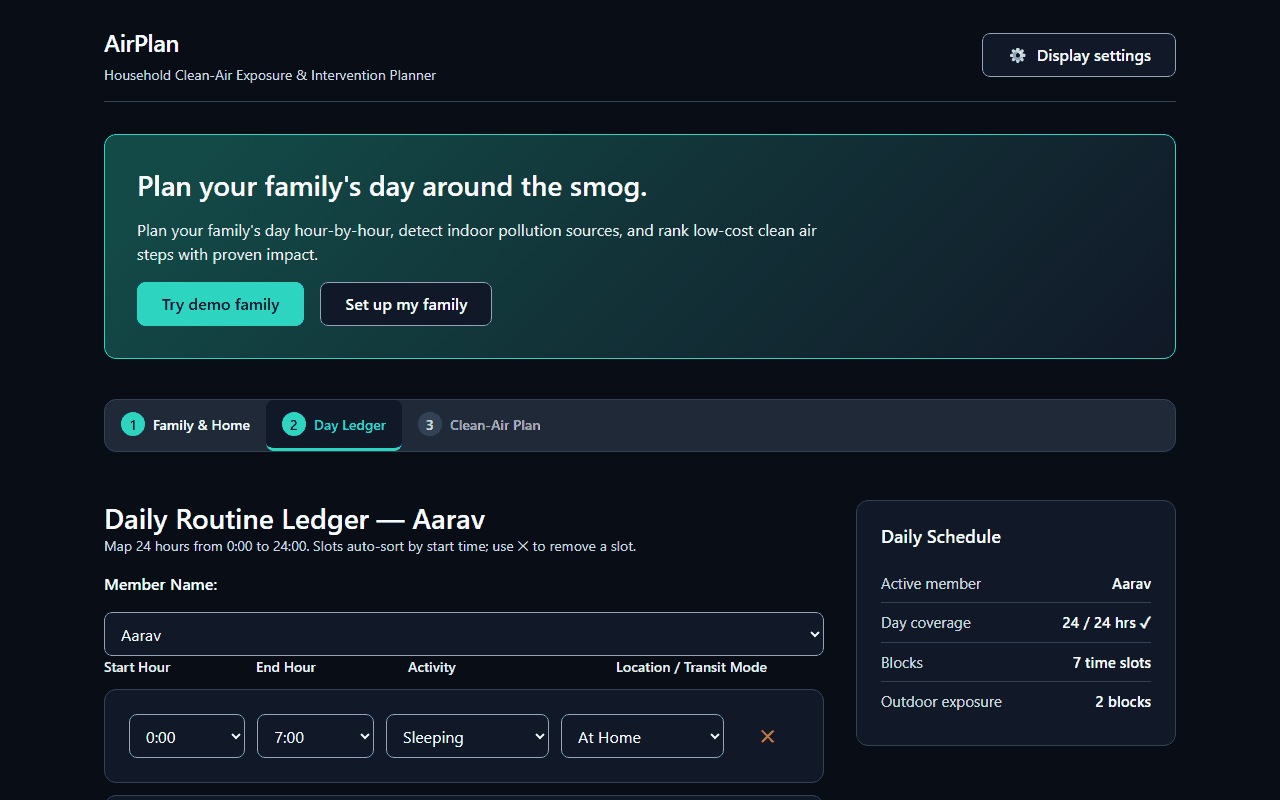
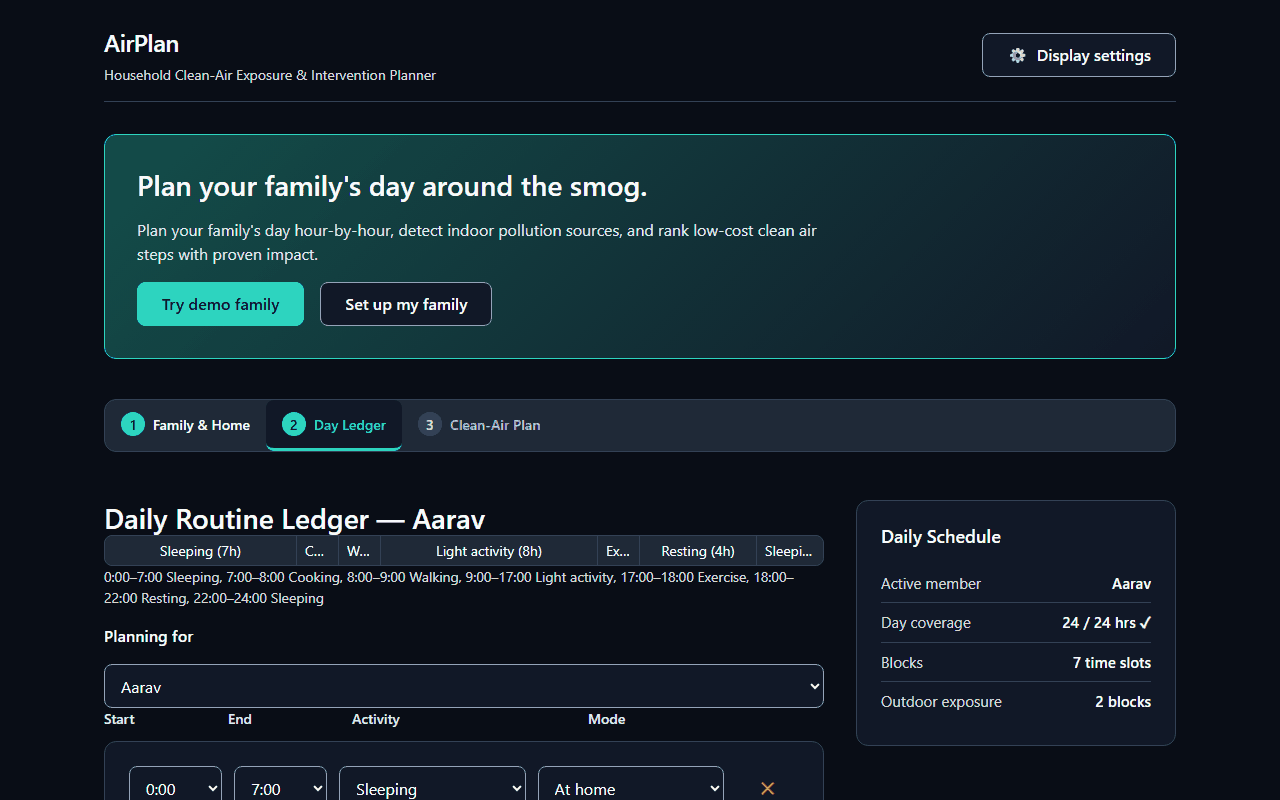
feat(ui): fix day ledger and family layout

diff --git a/static/js/render/ledger.js b/static/js/render/ledger.js
@@ -1,30 +1,40 @@
 /**
- * @fileoverview Screen 2: Day Ledger routine editor and counterfactual suggestion.
+ * @fileoverview Screen 2: Day Ledger routine editor, 24h strip, and simulation.
  */
 
 import { announce, showError } from '../a11y.js';
 import { simulateRoutine } from '../api.js';
 import { el } from '../dom.js';
-import { labelFor, t } from '../i18n.js';
+import { t } from '../i18n.js';
 import { getState, setState } from '../state.js';
-import { analyzeRoutineCoverage, sortRoutine } from './ledger_helpers.js';
+import { SHORT_ACT, SHORT_MODE, analyzeRoutineCoverage, sortRoutine, summarizeRoutineText } from './ledger_helpers.js';
 
-const ACTIVITIES = ['sleep', 'rest', 'light', 'walk', 'exercise', 'cook'];
-const MODES = ['home', 'walk', 'cycle', 'metro', 'bus', 'auto_rickshaw', 'car', 'outdoor'];
+const ACTIVITIES = Object.keys(SHORT_ACT);
+const MODES = Object.keys(SHORT_MODE);
 const HOURS = Array.from({ length: 25 }, (_, i) => ({ val: String(i), label: `${i}:00` }));
 
-function makeSel(ariaLabel, options, currentVal, onChange) {
+function makeSel(id, ariaLabel, options, currentVal, onChange) {
   const sel = document.createElement('select');
+  sel.id = id;
   sel.setAttribute('aria-label', ariaLabel);
   options.forEach((o) => {
-    const opt = document.createElement('option');
-    opt.value = typeof o === 'object' ? o.val : o;
-    opt.textContent = typeof o === 'object' ? o.label : o;
+    const opt = Object.assign(document.createElement('option'), {
+      value: typeof o === 'object' ? o.val : o,
+      textContent: typeof o === 'object' ? o.label : o,
+    });
     if (opt.value === String(currentVal)) opt.selected = true;
     sel.appendChild(opt);
   });
   sel.addEventListener('change', (e) => onChange(e.target.value));
   return sel;
+}
+
+function wrapField(lblText, sel) {
+  const wrap = el('div', 'ledger-field');
+  const lbl = el('label', 'mobile-field-label', lblText);
+  lbl.htmlFor = sel.id;
+  wrap.append(lbl, sel);
+  return wrap;
 }
 
 function updateMemberRoutine(memberIdx, newRoutine) {
@@ -33,26 +43,35 @@ function updateMemberRoutine(memberIdx, newRoutine) {
   setState({ members });
 }
 
-function buildBlockRow(block, bIdx, routine, activeIdx, lang) {
-  const row = el('div', 'routine-block-row card form-row');
-  const patch = (key, val) => {
-    const u = routine.map((b, i) => (i === bIdx ? { ...b, [key]: val } : b));
-    updateMemberRoutine(activeIdx, u);
-  };
-  const sSel = makeSel(`Start ${bIdx + 1}`, HOURS, block.start_hour, (v) => patch('start_hour', Number(v)));
-  const eSel = makeSel(`End ${bIdx + 1}`, HOURS, block.end_hour, (v) => patch('end_hour', Number(v)));
-  const aSel = makeSel(`Activity ${bIdx + 1}`, ACTIVITIES.map((a) => ({ val: a, label: labelFor('activity', a, lang) })), block.activity, (v) => patch('activity', v));
-  const mSel = makeSel(`Mode ${bIdx + 1}`, MODES.map((m) => ({ val: m, label: labelFor('mode', m, lang) })), block.mode, (v) => patch('mode', v));
+function buildBlockRow(block, bIdx, routine, activeIdx) {
+  const row = el('div', 'routine-block-row card');
+  const patch = (key, val) => updateMemberRoutine(activeIdx, routine.map((b, i) => (i === bIdx ? { ...b, [key]: val } : b)));
+  const sSel = makeSel(`b-${bIdx}-s`, `Start ${bIdx + 1}`, HOURS, block.start_hour, (v) => patch('start_hour', Number(v)));
+  const eSel = makeSel(`b-${bIdx}-e`, `End ${bIdx + 1}`, HOURS, block.end_hour, (v) => patch('end_hour', Number(v)));
+  const aSel = makeSel(`b-${bIdx}-a`, `Activity ${bIdx + 1}`, ACTIVITIES.map((a) => ({ val: a, label: SHORT_ACT[a] })), block.activity, (v) => patch('activity', v));
+  const mSel = makeSel(`b-${bIdx}-m`, `Mode ${bIdx + 1}`, MODES.map((m) => ({ val: m, label: SHORT_MODE[m] })), block.mode, (v) => patch('mode', v));
   const rmBtn = Object.assign(el('button', 'btn ghost', '✕'), { type: 'button', disabled: routine.length <= 1 });
   rmBtn.setAttribute('aria-label', `Delete block ${bIdx + 1}`);
   rmBtn.addEventListener('click', () => updateMemberRoutine(activeIdx, routine.filter((_, i) => i !== bIdx)));
-  row.append(sSel, eSel, aSel, mSel, rmBtn);
+  row.append(wrapField('Start', sSel), wrapField('End', eSel), wrapField('Activity', aSel), wrapField('Mode', mSel), rmBtn);
   return row;
+}
+
+function buildDayStrip(routine) {
+  const strip = el('div', 'day-strip');
+  strip.setAttribute('aria-hidden', 'true');
+  routine.forEach((b) => {
+    const dur = Math.max(1, b.end_hour - b.start_hour);
+    const seg = el('div', 'day-strip-seg', `${SHORT_ACT[b.activity] || b.activity} (${dur}h)`);
+    seg.style.flex = String(dur);
+    strip.appendChild(seg);
+  });
+  const textEq = el('p', 'help-text', summarizeRoutineText(routine));
+  return [strip, textEq];
 }
 
 /**
  * Render Day Ledger routine configuration screen into container.
- *
  * @param {HTMLElement} container - Target container element.
  * @returns {void}
  */
@@ -60,42 +79,34 @@ export function renderLedgerScreen(container) {
   container.replaceChildren();
   const s = getState(), lang = s.language;
   const activeIdx = s.activeMemberIndex || 0;
-  const currentMember = s.members[activeIdx] || s.members[0];
-  const cov = analyzeRoutineCoverage(currentMember.routine);
-
+  const cur = s.members[activeIdx] || s.members[0];
+  const cov = analyzeRoutineCoverage(cur.routine);
   const layout = el('div', 'step-layout'), mainCol = el('div', 'step-main');
-  mainCol.append(
-    el('h2', '', `${t('ledgerTitle', lang)} — ${currentMember.name}`),
-    el('p', 'help-text', 'Map 24 hours from 0:00 to 24:00. Slots auto-sort by start time; use ✕ to remove a slot.'),
-  );
+  mainCol.append(el('h2', '', `${t('ledgerTitle', lang)} — ${cur.name}`), ...buildDayStrip(cur.routine));
 
   if (s.members.length > 1) {
-    const selRow = el('div', 'field'), selLabel = el('label', '', `${t('memberName', lang)}:`);
+    const selRow = el('div', 'field'), selLabel = el('label', '', 'Planning for');
     selLabel.htmlFor = 'active-member-select';
-    const memSel = makeSel('Select Member', s.members.map((m, i) => ({ val: String(i), label: m.name })), String(activeIdx), (v) => setState({ activeMemberIndex: Number(v) }));
-    memSel.id = 'active-member-select';
+    const memSel = makeSel('active-member-select', 'Planning for', s.members.map((m, i) => ({ val: String(i), label: m.name })), String(activeIdx), (v) => setState({ activeMemberIndex: Number(v) }));
     selRow.append(selLabel, memSel);
     mainCol.appendChild(selRow);
   }
 
-  const hdrRow = el('div', 'routine-block-row form-label');
-  [t('startHour', lang), t('endHour', lang), t('activity', lang), t('mode', lang), ''].forEach((lbl) => hdrRow.appendChild(el('span', '', lbl)));
+  const hdrRow = el('div', 'routine-block-row ledger-col-headers form-label');
+  ['Start', 'End', 'Activity', 'Mode', ''].forEach((lbl) => hdrRow.appendChild(el('span', '', lbl)));
   const blocksList = el('div', 'blocks-list');
   blocksList.appendChild(hdrRow);
-  currentMember.routine.forEach((b, bIdx) => blocksList.appendChild(buildBlockRow(b, bIdx, currentMember.routine, activeIdx, lang)));
+  cur.routine.forEach((b, i) => blocksList.appendChild(buildBlockRow(b, i, cur.routine, activeIdx)));
   mainCol.appendChild(blocksList);
 
   const msgEl = Object.assign(el('p', 'form-error', ''), { id: 'ledger-msg' });
   msgEl.setAttribute('role', 'alert');
   const actionsRow = el('div', 'actions');
-  if (currentMember.routine.length < 12) {
-    const addBtn = Object.assign(el('button', 'btn btn-secondary', `+ ${t('addBlock', lang)}`), { type: 'button' });
+  if (cur.routine.length < 12) {
+    const addBtn = Object.assign(el('button', 'btn btn-secondary', '+ Add block'), { type: 'button' });
     addBtn.addEventListener('click', () => {
-      if (cov.covered >= 24) {
-        msgEl.textContent = 'All 24 hours are already covered. Remove (✕) or shorten a slot first.';
-        return;
-      }
-      updateMemberRoutine(activeIdx, [...currentMember.routine, { start_hour: cov.gapStart, end_hour: cov.gapEnd, activity: 'light', mode: 'home' }]);
+      if (cov.covered >= 24) { msgEl.textContent = 'All 24 hours are covered. Remove (✕) or shorten a slot first.'; return; }
+      updateMemberRoutine(activeIdx, [...cur.routine, { start_hour: cov.gapStart, end_hour: cov.gapEnd, activity: 'light', mode: 'home' }]);
     });
     actionsRow.appendChild(addBtn);
   }
@@ -104,8 +115,8 @@ export function renderLedgerScreen(container) {
   suggestBtn.addEventListener('click', async () => {
     announce('Optimizing routine...');
     try {
-      const alt = currentMember.routine.map((b) => (b.activity === 'exercise' && b.mode === 'outdoor' ? { ...b, mode: 'home' } : { ...b }));
-      const sim = await simulateRoutine({ base_routine: currentMember.routine, alt_routine: alt, home: s.home, age_group: currentMember.age_group, latitude: s.latitude, longitude: s.longitude });
+      const alt = cur.routine.map((b) => (b.activity === 'exercise' && b.mode === 'outdoor' ? { ...b, mode: 'home' } : { ...b }));
+      const sim = await simulateRoutine({ base_routine: cur.routine, alt_routine: alt, home: s.home, age_group: cur.age_group, latitude: s.latitude, longitude: s.longitude });
       setState({ simulationResult: sim });
       announce(`Simulation: index reduced to ${sim.index_after}.`);
     } catch (err) { showError(err instanceof Error ? err.message : 'Simulation failed'); }
@@ -124,12 +135,9 @@ export function renderLedgerScreen(container) {
   const aside = el('aside', 'step-aside'), sumCard = el('div', 'card summary-card'), dl = el('dl', 'summary-list');
   sumCard.appendChild(el('h3', '', 'Daily Schedule'));
   const addItem = (dt, dd) => { const it = el('div', 'summary-item'); it.append(el('dt', '', dt), el('dd', '', dd)); dl.appendChild(it); };
-  addItem('Active member', currentMember.name);
-  addItem('Day coverage', cov.covered === 24 ? '24 / 24 hrs ✓' : `${cov.covered} / 24 hrs (fill gaps)`);
-  addItem('Blocks', `${currentMember.routine.length} time slots`);
-  addItem('Outdoor exposure', `${currentMember.routine.filter((b) => b.mode === 'walk' || b.mode === 'outdoor').length} blocks`);
-  sumCard.appendChild(dl);
-  aside.appendChild(sumCard);
-  layout.append(mainCol, aside);
-  container.appendChild(layout);
+  addItem('Active member', cur.name);
+  addItem('Day coverage', cov.covered === 24 ? '24 / 24 hrs ✓' : `${cov.covered} / 24 hrs`);
+  addItem('Blocks', `${cur.routine.length} time slots`);
+  addItem('Outdoor exposure', `${cur.routine.filter((b) => b.mode === 'walk' || b.mode === 'outdoor').length} blocks`);
+  sumCard.appendChild(dl); aside.appendChild(sumCard); layout.append(mainCol, aside); container.appendChild(layout);
 }

diff --git a/static/js/render/family.js b/static/js/render/family.js
@@ -74,7 +74,7 @@ export function renderFamilyScreen(container) {
     const cancelBtn = Object.assign(el('button', 'btn btn-secondary', 'Cancel'), { type: 'button' });
     const toggleAddView = (open) => {
       panel.hidden = !open; memList.hidden = open; openRow.hidden = open;
-      hbDetails.hidden = open; actions.hidden = open;
+      hbGrid.hidden = open; actions.hidden = open;
       if (open) nameIn.focus(); else errEl.textContent = '';
     };
     openBtn.addEventListener('click', () => toggleAddView(true));
@@ -97,11 +97,9 @@ export function renderFamilyScreen(container) {
   }
   mainCol.appendChild(c1);
 
-  // Collapsible Home & Budget section (keeps landing view focused on household members)
-  const hbDetails = Object.assign(el('details', 'card'), { id: 'home-budget-details', open: Boolean(s.homeBudgetOpen) });
-  hbDetails.addEventListener('toggle', () => setState({ homeBudgetOpen: hbDetails.open }, true));
-  hbDetails.appendChild(el('summary', 'card-title', `🏠 ${t('yourHome', lang)} & ${t('yourBudget', lang)}`));
-  const c2 = el('div', 'field'), leakSel = el('select'), citySel = el('select');
+  // Two open cards ("Your home" & "Your budget") in a two-column desktop grid
+  const hbGrid = el('div', 'grid-2col');
+  const c2 = el('div', 'card'), leakSel = el('select'), citySel = el('select');
   c2.appendChild(el('h3', '', t('yourHome', lang)));
   leakSel.appendChild(opt('', 'Select home leakiness', !s.homeSelected));
   ['tight', 'average', 'leaky'].forEach((l) => leakSel.appendChild(opt(l, labelFor('leakiness', l, lang), Boolean(s.homeSelected && l === s.home.leakiness))));
@@ -122,7 +120,7 @@ export function renderFamilyScreen(container) {
   pF.append(pLbl, pHelp);
   c2.append(homeRow, pF);
 
-  const c3 = el('div', 'field'), bF = el('div', 'field'), bRow = el('div', 'field-row');
+  const c3 = el('div', 'card'), bF = el('div', 'field'), bRow = el('div', 'field-row');
   c3.appendChild(el('h3', '', t('yourBudget', lang)));
   const bLbl = Object.assign(el('label', '', s.budgetSelected ? `₹${s.budgetInr} per month` : 'Enter monthly budget (INR)'), { htmlFor: 'budget-slider', id: 'budget-amount-label' });
   const bRange = Object.assign(el('input'), { type: 'range', id: 'budget-slider', min: '0', max: '20000', step: '100', value: String(s.budgetInr) });
@@ -140,7 +138,7 @@ export function renderFamilyScreen(container) {
   bRange.addEventListener('input', (e) => syncB(e.target.value, false));
   bNum.addEventListener('input', (e) => syncB(e.target.value, true));
   bRow.append(bRange, bNum); bF.append(bLbl, bRow, bHelp); c3.append(bF);
-  hbDetails.append(c2, c3); mainCol.appendChild(hbDetails);
+  hbGrid.append(c2, c3); mainCol.appendChild(hbGrid);
   const actions = el('div', 'actions');
   actions.appendChild(Object.assign(el('button', 'btn primary btn-primary', t('nextYourDay', lang)), { type: 'button', id: 'next-to-ledger-btn' }));
   mainCol.append(actions); layout.append(mainCol, renderHouseholdSummary(s, lang)); container.appendChild(layout);

diff --git a/static/css/forms.css b/static/css/forms.css
@@ -89,6 +89,7 @@ input[type="checkbox"] {
 .actions {
   display: flex;
   justify-content: flex-end;
+  flex-wrap: wrap;
   gap: var(--space-3);
   margin-top: var(--space-2);
 }
@@ -107,7 +108,7 @@ input[type="checkbox"] {
   display: none;
 }
 
-/* Day Ledger Routine Grid */
+/* Day Ledger Routine Grid & 24h Strip */
 .blocks-list {
   display: flex;
   flex-direction: column;
@@ -116,9 +117,46 @@ input[type="checkbox"] {
 
 .routine-block-row {
   display: grid;
-  grid-template-columns: 1fr 1fr 1.4fr 1.4fr auto;
+  grid-template-columns: minmax(88px, 1fr) minmax(88px, 1fr) minmax(160px, 2fr) minmax(160px, 2fr) auto;
   gap: var(--space-3);
   align-items: center;
+}
+
+.ledger-field {
+  display: flex;
+  flex-direction: column;
+  gap: var(--space-1);
+}
+
+.mobile-field-label {
+  display: none;
+  font-size: var(--text-sm);
+  font-weight: var(--font-semibold);
+  color: var(--text-secondary);
+}
+
+.day-strip {
+  display: flex;
+  width: 100%;
+  border: 1px solid var(--border-card);
+  border-radius: var(--radius-md);
+  overflow: hidden;
+  background: var(--bg-surface-elevated);
+}
+
+.day-strip-seg {
+  padding: var(--space-1) var(--space-2);
+  font-size: var(--text-sm);
+  border-right: 1px solid var(--border-card);
+  text-align: center;
+  white-space: nowrap;
+  overflow: hidden;
+  text-overflow: ellipsis;
+  color: var(--text-primary);
+}
+
+.day-strip-seg:last-child {
+  border-right: none;
 }
 
 .checkbox-label {
@@ -134,9 +172,15 @@ input[type="checkbox"] {
   flex-wrap: wrap;
 }
 
-@media (max-width: 640px) {
+@media (max-width: 767px) {
+  .ledger-col-headers {
+    display: none;
+  }
   .routine-block-row {
     grid-template-columns: 1fr 1fr;
+  }
+  .mobile-field-label {
+    display: block;
   }
 }
 

diff --git a/static/js/render/ledger_helpers.js b/static/js/render/ledger_helpers.js
@@ -1,6 +1,26 @@
 /**
- * @fileoverview Pure routine sorting, 24-hour gap detection, and coverage helpers.
+ * @fileoverview Pure routine sorting, 24-hour gap detection, labels, and strip helpers.
  */
+
+export const SHORT_ACT = {
+  sleep: 'Sleeping',
+  rest: 'Resting',
+  light: 'Light activity',
+  cook: 'Cooking',
+  walk: 'Walking',
+  exercise: 'Exercise',
+};
+
+export const SHORT_MODE = {
+  home: 'At home',
+  outdoor: 'Outdoors',
+  walk: 'Walking',
+  cycle: 'Bicycle',
+  metro: 'Metro',
+  bus: 'Bus',
+  auto_rickshaw: 'Auto',
+  car: 'Car',
+};
 
 /**
  * Sort routine blocks chronologically by start_hour then end_hour.
@@ -31,3 +51,13 @@ export function analyzeRoutineCoverage(routine) {
   return { covered, gapStart: firstGap, gapEnd: end };
 }
 
+/**
+ * Build a plain-text 24-hour schedule summary for screen readers and strip fallback.
+ * @param {Array<{start_hour: number, end_hour: number, activity: string}>} routine
+ * @returns {string}
+ */
+export function summarizeRoutineText(routine) {
+  return routine
+    .map((b) => `${b.start_hour}:00–${b.end_hour}:00 ${SHORT_ACT[b.activity] || b.activity}`)
+    .join(', ');
+}
